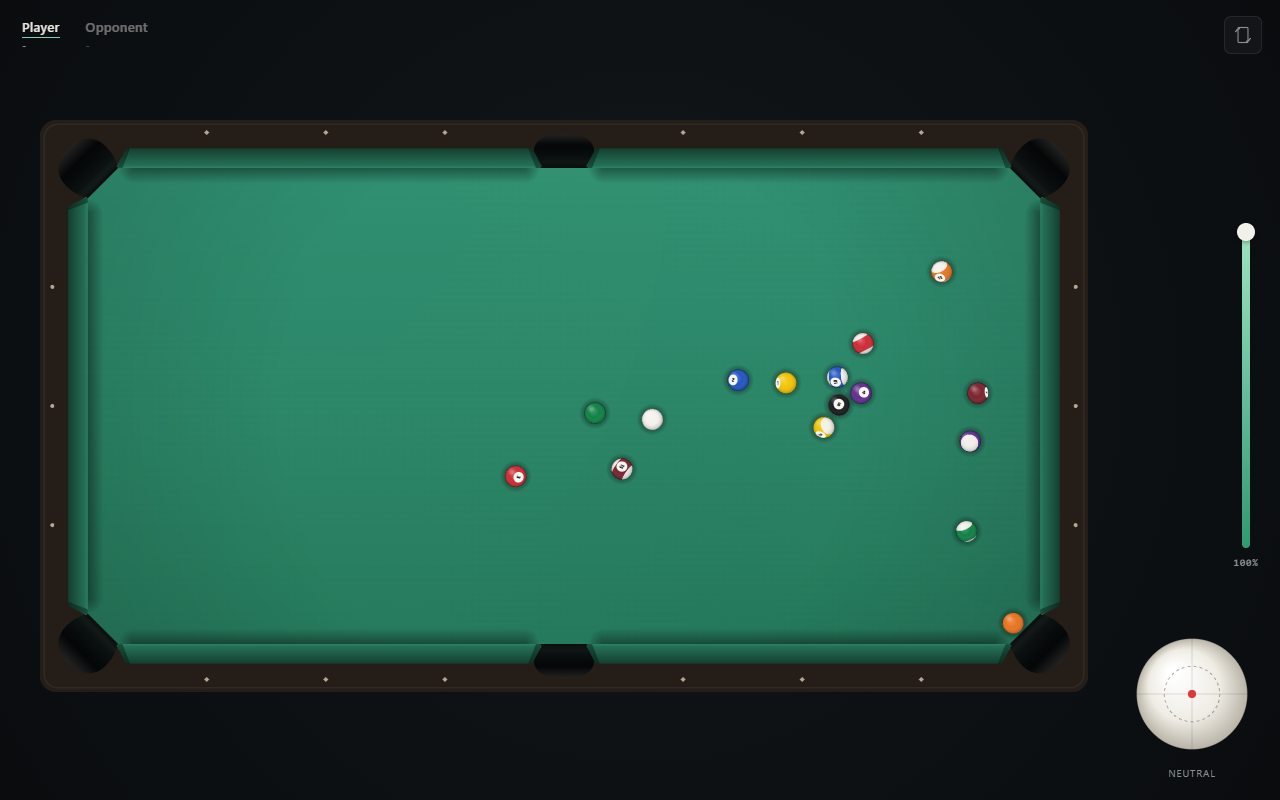
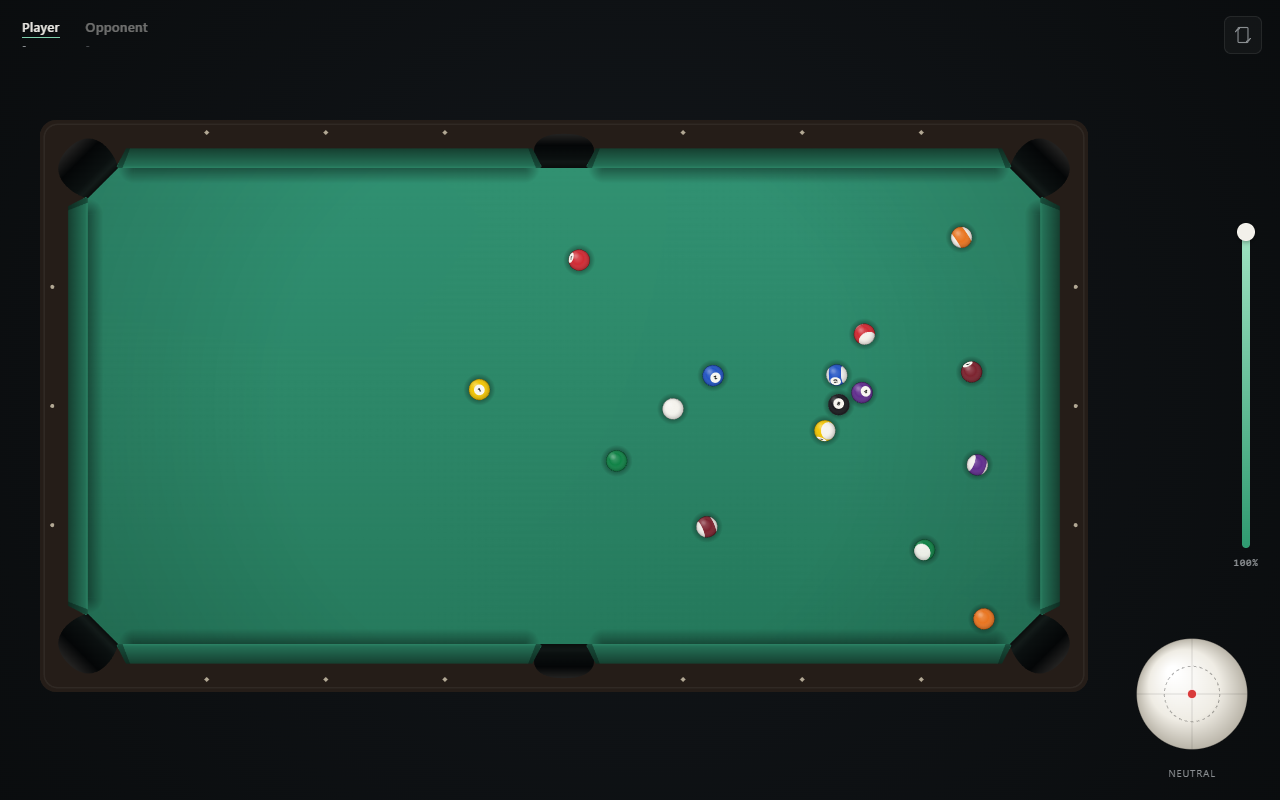
See the other player's cue, and let balls roll further
The player on strike now shares their aim and power a few times a second, and the opponent draws that as a light ghost cue behind the table, so you can watch them line up the shot. Rolling friction drops from 0.02 to 0.015: a ball at 1 m/s now runs 3.4 m instead of 2.55 m, which is closer to real cloth. Lower friction also means a break can now pot, so the multiplayer test follows the outcome instead of assuming the turn always passes.

diff --git a/src/render/scene.ts b/src/render/scene.ts
@@ -18,6 +18,8 @@ export type ViewState = {
   power: number;
   spin: V2;
   showAim: boolean;
+  /** Where the other player is lining up, if they are on strike. */
+  peerAim?: { aim: number; power: number } | null;
   placing: boolean;
   hover: V2 | null;
 };
@@ -359,6 +361,16 @@ export class Scene {
       ctx.drawImage(this.layer, -OUTER_L / 2, -OUTER_W / 2, OUTER_L, OUTER_W);
     }
 
+    if (view.peerAim) {
+      const cue = view.balls.find((b) => b.id === view.cueBallId);
+      if (cue && !cue.pocketed) {
+        const dir = { x: Math.cos(view.peerAim.aim), y: Math.sin(view.peerAim.aim) };
+        // Drawn behind everything, in its own colour: it is their cue, not
+        // yours, and it must not be mistaken for your own.
+        drawCueStick(ctx, cue.p, dir, view.peerAim.power, 0.85, true);
+      }
+    }
+
     if (view.showAim && !view.placing) this.drawAim(view);
     for (const b of view.balls) {
       if (b.pocketed) continue;
@@ -413,38 +425,67 @@ export class Scene {
     ctx.stroke();
 
     // cue stick: a tapered shape, not a line, so it reads as a cue
-    const back = 0.018 + view.power * 0.07;
-    const bx = cue.p.x - dir.x * (BALL_R + back);
-    const by = cue.p.y - dir.y * (BALL_R + back);
-    const px = -dir.y;
-    const py = dir.x;
-    const cueLen = 0.46;
-    const ex = bx - dir.x * cueLen;
-    const ey = by - dir.y * cueLen;
-    const tipW = 0.0032;
-    const buttW = 0.0068;
-    const g2 = ctx.createLinearGradient(bx, by, ex, ey);
+    drawCueStick(ctx, cue.p, dir, view.power, 1);
+  }
+}
+
+/**
+ * The cue, pulled back by `power`. `alpha` lets the other player's cue be drawn
+ * as a ghost, so you can see what they are lining up without it being confused
+ * with your own.
+ */
+function drawCueStick(
+  ctx: CanvasRenderingContext2D,
+  from: V2,
+  dir: V2,
+  power: number,
+  alpha: number,
+  ghost = false,
+): void {
+  ctx.save();
+  ctx.globalAlpha = alpha;
+
+  const back = 0.018 + power * 0.07;
+  const bx = from.x - dir.x * (BALL_R + back);
+  const by = from.y - dir.y * (BALL_R + back);
+  const px = -dir.y;
+  const py = dir.x;
+  const cueLen = 0.46;
+  const ex = bx - dir.x * cueLen;
+  const ey = by - dir.y * cueLen;
+  const tipW = 0.0032;
+  const buttW = 0.0068;
+  const g2 = ctx.createLinearGradient(bx, by, ex, ey);
+  if (ghost) {
+    // The real cue's browns disappear against the cloth at low opacity, so the
+    // other player's cue gets its own light colour rather than a dimmed copy.
+    g2.addColorStop(0, 'rgba(240,247,243,0.95)');
+    g2.addColorStop(0.35, 'rgba(226,238,232,0.5)');
+    g2.addColorStop(1, 'rgba(226,238,232,0)');
+  } else {
     g2.addColorStop(0, '#efe3c6');
     g2.addColorStop(0.04, '#cbb17a');
     g2.addColorStop(0.1, '#7a5c3c');
     g2.addColorStop(0.22, '#3d2a1c');
     g2.addColorStop(0.75, 'rgba(44,31,22,0.75)');
     g2.addColorStop(1, 'rgba(40,28,20,0)');
-    ctx.fillStyle = g2;
-    ctx.beginPath();
-    ctx.moveTo(bx + px * tipW, by + py * tipW);
-    ctx.lineTo(ex + px * buttW, ey + py * buttW);
-    ctx.lineTo(ex - px * buttW, ey - py * buttW);
-    ctx.lineTo(bx - px * tipW, by - py * tipW);
-    ctx.closePath();
-    ctx.fill();
-
-    // leather tip
-    ctx.fillStyle = '#2f6f9e';
-    ctx.beginPath();
-    ctx.arc(bx, by, 0.0034, 0, TAU);
-    ctx.fill();
   }
+  ctx.fillStyle = g2;
+  ctx.beginPath();
+  ctx.moveTo(bx + px * tipW, by + py * tipW);
+  ctx.lineTo(ex + px * buttW, ey + py * buttW);
+  ctx.lineTo(ex - px * buttW, ey - py * buttW);
+  ctx.lineTo(bx - px * tipW, by - py * tipW);
+  ctx.closePath();
+  ctx.fill();
+
+  // leather tip
+  ctx.fillStyle = '#2f6f9e';
+  ctx.beginPath();
+  ctx.arc(bx, by, 0.0034, 0, TAU);
+  ctx.fill();
+
+  ctx.restore();
 }
 
 function drawPlacement(ctx: CanvasRenderingContext2D, p: V2): void {

diff --git a/src/app.ts b/src/app.ts
@@ -45,6 +45,10 @@ export class App {
   private hover: { x: number; y: number } | null = null;
 
   private playFrames: Frame[] = [];
+  /** Where the other player is lining up, while they are on strike. */
+  private peerAim: { aim: number; power: number } | null = null;
+  private lastAimSent = 0;
+  private lastAim = { aim: 0, power: 0 };
   private playT = 0;
   /** Wall-clock ms at which the current replay started. */
   private playStart = 0;
@@ -467,8 +471,7 @@ export class App {
 
   private onServer(m: ServerMsg): void {
     switch (m.t) {
-      case 'hello': {
-        // Remember what this connection is called; the first one doubles as the
+      case 'hello': {        // Remember what this connection is called; the first one doubles as the
         // seat token until a room hands us our own.
         this.helloId = m.id;
         if (!this.token) this.token = m.id;
@@ -499,6 +502,7 @@ export class App {
         break;
       }
       case 'start': {
+        this.peerAim = null;
         this.el.setup.classList.add('hidden');
         this.el.gameover.classList.add('hidden');
         this.state = m.state;
@@ -510,7 +514,12 @@ export class App {
         this.toast(m.state.turn === this.side ? 'Your break.' : 'Opponent breaks.');
         break;
       }
+      case 'aim': {
+        this.peerAim = { aim: m.aim, power: m.power };
+        break;
+      }
       case 'shot': {
+        this.peerAim = null;
         // The server is authoritative, so take its state immediately and treat
         // the animation as decoration. Otherwise a hidden tab holds back the
         // real board, and a second shot would be re-simulated from a stale one.
@@ -855,7 +864,29 @@ export class App {
 
   // ---------------------------------------------------------------- frame
 
+  /**
+   * Tell the opponent where the cue is pointing, so they can watch you line up.
+   * Throttled and change-only: this is a courtesy, not game state, and it must
+   * never be the reason a shot feels laggy.
+   */
+  private sendAim(now: number): void {
+    if (this.mode !== 'online' || !this.net || !this.state) return;
+    if (this.state.turn !== this.side || this.state.over) return;
+    if (this.playFrames.length > 0 || this.placing) return;
+    if (now - this.lastAimSent < 90) return;
+    if (
+      Math.abs(this.aim - this.lastAim.aim) < 0.004 &&
+      Math.abs(this.power - this.lastAim.power) < 0.01
+    ) {
+      return;
+    }
+    this.lastAimSent = now;
+    this.lastAim = { aim: this.aim, power: this.power };
+    this.net.send({ t: 'aim', aim: this.aim, power: this.power });
+  }
+
   private loop(now: number): void {
+    this.sendAim(now);
     if (this.playFrames.length > 0) {
       // Wall clock, not accumulated frame deltas. A hidden tab stops getting
       // frames, and a paused animation must not hold the board - or the turn -
@@ -886,6 +917,7 @@ export class App {
       power: this.power,
       spin: this.spin.value,
       showAim: this.canShoot() || this.placing,
+      peerAim: this.mode === 'online' ? this.peerAim : null,
       placing: this.placing,
       hover: this.hover,
     };

diff --git a/test/multiplayer.test.ts b/test/multiplayer.test.ts
@@ -99,14 +99,19 @@ describe('rooms', () => {
     a.send({ t: 'shot', shot: opening });
     const [shot, otherShot] = await Promise.all([a.next('shot'), b.next('shot')]);
     expect(shot.by).toBe(0);
-    expect(shot.state.turn).toBe(1);
+    // Potting on the break keeps the table, so the turn only passes on a dry
+    // break. Which one happens depends on the friction, so follow the outcome
+    // rather than assuming it.
+    const potted = shot.state.balls.filter((b) => b.pocketed).length;
+    expect(shot.state.turn).toBe(potted > 0 ? 0 : 1);
     expect(shot.state.onBreak).toBe(false);
     expect(otherShot.state).toEqual(shot.state);
     expect(shot.state.balls).toEqual(shoot(startA.state.balls, opening, 0, true).balls);
 
-    // Player A cannot shoot out of turn.
-    a.send({ t: 'shot', shot: { aim: 0, power: 0.9, spin: { x: 0, y: 0 } } });
-    const err = await a.next('error');
+    // Whoever is not on strike cannot shoot.
+    const waiting = shot.state.turn === 0 ? b : a;
+    waiting.send({ t: 'shot', shot: { aim: 0, power: 0.9, spin: { x: 0, y: 0 } } });
+    const err = await waiting.next('error');
     expect(err.message).toMatch(/Not your turn/);
 
     a.close();

diff --git a/server/game.ts b/server/game.ts
@@ -273,6 +273,19 @@ export async function createGameServer(
         beginGame(room);
         break;
       }
+      case 'aim': {
+        // Best effort, and only the player on strike: it is a hint of where the
+        // cue is pointing, not game state, so a dropped update costs nothing.
+        const room = client.room;
+        if (!room || !room.state || room.state.over) return;
+        if (room.state.turn !== client.side) return;
+        const aim = Number(msg.aim);
+        const power = Number(msg.power);
+        if (!Number.isFinite(aim) || !Number.isFinite(power) || power < 0 || power > 1) return;
+        const peer = room.slots.find((c) => c !== null && c !== client) ?? null;
+        if (peer && !peer.gone) send(peer, { t: 'aim', side: client.side, aim, power });
+        break;
+      }
       case 'shot':
         if (client.room) handleShot(client.room, client, msg.shot);
         break;

diff --git a/shared/protocol.ts b/shared/protocol.ts
@@ -10,6 +10,7 @@ export type ClientMsg =
   | { t: 'rules'; rules: Rules }
   | { t: 'start' }
   | { t: 'shot'; shot: Shot }
+  | { t: 'aim'; aim: number; power: number }
   | { t: 'place'; x: number; y: number }
   | { t: 'timeout' }
   | { t: 'rematch' }
@@ -31,6 +32,7 @@ export type ServerMsg =
   | { t: 'shot'; by: Side; shot: Shot; state: WebState }
   | { t: 'state'; state: WebState }
   | { t: 'peer'; joined: boolean; name: string }
+  | { t: 'aim'; side: Side; aim: number; power: number }
   | { t: 'error'; message: string }
   | { t: 'bye' };
 

diff --git a/src/core/constants.ts b/src/core/constants.ts
@@ -10,8 +10,8 @@ export const G = 9.81;
 
 /** Kinetic friction while the contact point is slipping. */
 export const MU_SLIDE = 0.2;
-/** Rolling resistance once the ball is in pure rolling. ~0.20 m/s^2 of decel. */
-export const MU_ROLL = 0.02;
+/** Rolling resistance once the ball is in pure rolling. ~0.15 m/s^2 of decel. */
+export const MU_ROLL = 0.015;
 /** Tangential friction between two balls. Drives throw and spin transfer. */
 export const MU_BALL = 0.06;
 /** Tangential friction on the cushion. Drives english off the rails. */
